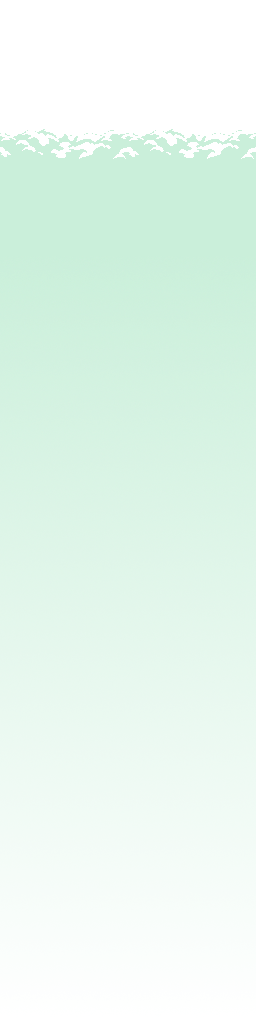
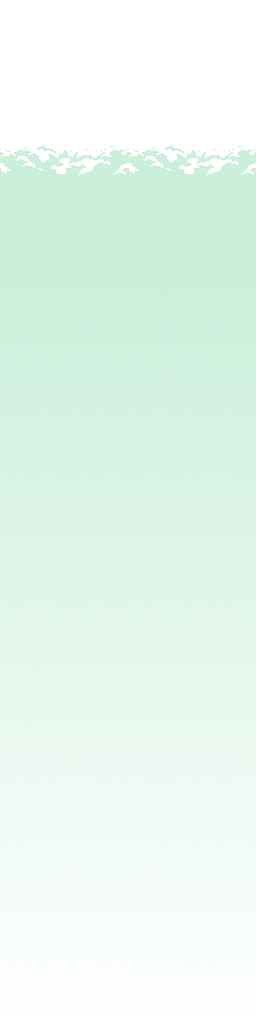
more parallaxing and level gen

Changed region(s): [[0.0, 0.125, 1.0, 0.1875]]

diff --git a/Game1.cs b/Game1.cs
@@ -16,8 +16,6 @@ namespace TheBondOfStone {
         public static int PixelScaleFactor { get; set; }
 
         List<TileMap> Chunks;
-        TileMap previousChunk;
-        TileMap currentChunk;
         FileInfo[] mapFiles;
 
         List<ParallaxLayer> parallaxLayers;
@@ -69,14 +67,19 @@ namespace TheBondOfStone {
             mapFiles = mapDir.GetFiles();
 
             //TODO: Actual map generation script implementation goes here.
-            //map.Generate(map.ReadImage("map_1.png"), PixelScaleFactor);
+
+            //Starter generation: generate chunks out to the end of the screen to start off.
+            DoStarterGeneration();
             
 
             //Initialize and load background parallaxing layers
             parallaxLayers = new List<ParallaxLayer>();
-            parallaxLayers.Add(new ParallaxLayer(Content.Load<Texture2D>(@"graphics\misc\parallax_0"), new Vector2(-10, 3f), 0.0125f));
-            parallaxLayers.Add(new ParallaxLayer(Content.Load<Texture2D>(@"graphics\misc\parallax_1"), new Vector2(-30, 3f), 0.03f));
+            parallaxLayers.Add(new ParallaxLayer(Content.Load<Texture2D>(@"graphics\misc\parallax_0"), new Vector2(-10, 3f), new Vector2(0.0125f, 0f)));
+            parallaxLayers.Add(new ParallaxLayer(Content.Load<Texture2D>(@"graphics\misc\parallax_2"), new Vector2(-30, 4f), new Vector2(0.5f, -0.25f)));
 
+            parallaxLayers.Add(new ParallaxLayer(Content.Load<Texture2D>(@"graphics\misc\parallax_1"), new Vector2(-30, 4f), new Vector2(0.03f, 0f)));
+            parallaxLayers.Add(new ParallaxLayer(Content.Load<Texture2D>(@"graphics\misc\parallax_3"), new Vector2(-10, 3f), new Vector2(0.1f, -0.5f)));
+            
 
         }
 
@@ -113,9 +116,9 @@ namespace TheBondOfStone {
 
             //Update backgrounds
             foreach (ParallaxLayer p in parallaxLayers)
-                p.Update(gameTime, direction, GraphicsDevice.Viewport);
+                p.Update(gameTime, direction, GraphicsDevice.Viewport); //Replace "direction" with player X velocity
 
-            UpdateChunks();
+            UpdateChunkGeneration();
 
             base.Update(gameTime);
         }
@@ -130,7 +133,8 @@ namespace TheBondOfStone {
             //Draw background parallaxing layers with different spritebatch settings 
             spriteBatch.Begin(SpriteSortMode.Deferred, null, SamplerState.PointWrap);
             foreach (ParallaxLayer p in parallaxLayers)
-                p.Draw(spriteBatch);
+                if(p != parallaxLayers[3])
+                    p.Draw(spriteBatch);
 
             spriteBatch.End();
 
@@ -139,21 +143,24 @@ namespace TheBondOfStone {
                 map.Draw(spriteBatch); //Draw each active chunk
             spriteBatch.End();
 
+            spriteBatch.Begin(SpriteSortMode.Deferred, null, SamplerState.PointWrap);
+            parallaxLayers[3].Draw(spriteBatch);
+            spriteBatch.End();
             base.Draw(gameTime);
         }
 
         //Maybe use this to generate chunks eventually.
         void GenerateNewChunk(Rectangle startTileRect, string mapName) {
-            TileMap newChunk = new TileMap();
-
-            Chunks.Add(newChunk);
-            previousChunk = currentChunk;
-            currentChunk = newChunk;
-
-            //TODO: Generate the chunk at an origin position given by startTileRect as an "origin"
+            Chunks.Add(new TileMap(startTileRect));
         }
 
-        void UpdateChunks() {
+        void UpdateChunkGeneration() {
+            foreach (TileMap chunk in Chunks) {
+                if (!chunk.Generated)
+                    chunk.Generate(chunk.ReadImage(GetNewMapName()), PixelScaleFactor);
+            }
+
+
             if (Chunks.Count > 0) {
                 if (Chunks[0].EndTile.Rect.X <= -Chunks[0].EndTile.Rect.Width) {
                     //last tile of first chunk is off screen, destroy that chunk (i.e. remove it from the list).
@@ -167,8 +174,13 @@ namespace TheBondOfStone {
             }
         }
 
+        void DoStarterGeneration() {
+            Chunks.Add(new TileMap());
+        }
+
         //Gets a random map name from the directory of the maps
         string GetNewMapName() {
+            //Return the name of a file from mapFiles (the directory of the maps) 
             return mapFiles[RandomObject.Next(mapFiles.Length)].Name;
         }
     }

diff --git a/TileMap.cs b/TileMap.cs
@@ -15,6 +15,8 @@ namespace TheBondOfStone {
         public Tile StartTile { get; set; }
         public Tile EndTile { get; set; }
 
+        public bool Generated { get; set; }
+
         public List<Tile> Tiles {
             get { return tiles; }
         }
@@ -24,7 +26,27 @@ namespace TheBondOfStone {
         public int Width { get { return width; } }
         public int Height { get { return height; } }
 
-        public TileMap() { }
+        Microsoft.Xna.Framework.Rectangle o;
+
+        public TileMap(Microsoft.Xna.Framework.Rectangle originTile) {
+            o = originTile;
+        }
+
+        //default constructor generates the "starter chunk"
+        public TileMap() {
+            int[,] atlas = new int[,] {
+                { 0, 0, 0, 0, 0 },
+                { 0, 2, 2, 0, 0 },
+                { 0, 2, 2, 2, 0 },
+                { 1, 1, 1, 1, 5 },
+                { 0, 1, 1, 0, 0 }
+            };
+
+            Generate(atlas, Game1.PixelScaleFactor);
+            EndTile = Tiles[23];
+
+            o = new Microsoft.Xna.Framework.Rectangle(10 * Game1.PixelScaleFactor, 20 * Game1.PixelScaleFactor, Game1.PixelScaleFactor, Game1.PixelScaleFactor);
+        }
 
         //Generate this chunk in a drawable format. Takes a 2D array of tile IDs and a tile size.
         public void Generate(int[,] atlas, int size) {
@@ -32,15 +54,9 @@ namespace TheBondOfStone {
             for (int x = 0; x < atlas.GetLength(1); x++) {
                 for (int y = 0; y < atlas.GetLength(0); y++) {
                     //Add a new tile to the tiles list with an ID and rect from the Atlas.
-                    Tile tileToAdd = new Tile(atlas[y, x], new Microsoft.Xna.Framework.Rectangle(x * size, y * size, size, size));
+                    Tile tileToAdd = new Tile(atlas[y, x], new Microsoft.Xna.Framework.Rectangle(o.X + (x * size + size), o.Y + (y * size), size, size));
 
                     Tiles.Add(tileToAdd);
-
-                    if (tileToAdd.ID == 4)
-                        StartTile = tileToAdd;
-
-                    if (tileToAdd.ID == 5)
-                        StartTile = tileToAdd;
 
                     width = (x + 1) * size;
                     height = (y + 1) * size;
@@ -102,9 +118,16 @@ namespace TheBondOfStone {
                 }
             }
 
-            //Generate the decorations for each tile
-            foreach(Tile tile in Tiles)
+            //Generate the decorations and start/end tile information for each tile
+            foreach (Tile tile in Tiles) {
+                if (tile.ID == 4)
+                    StartTile = tile;
+                else if (tile.ID == 5)
+                    EndTile = tile;
                 tile.GenerateDecorations();
+            }
+
+            Generated = true;
         }
 
         public void Draw(SpriteBatch sb) {
@@ -124,15 +147,15 @@ namespace TheBondOfStone {
 
             for(int x = 0; x < atlas.GetLength(1); x++) { //Iterate through each atlas index
                 for(int y = 0; y < atlas.GetLength(0); y++) {
-                    Color px = img.GetPixel(y, x); //Get the pixel color at this index and convert it to a string
+                    Color px = img.GetPixel(x, y); //Get the pixel color at this index and convert it to a string
 
                     string pxStr = 
                         px.R.ToString("D3") + " " +
                         px.G.ToString("D3") + " " +
                         px.B.ToString("D3") + " " +
                         px.A.ToString("D3");
-
-                    atlas[x, y] = TileID(pxStr, y, atlas.GetLength(0)); //Convert the pixel color to an integer ID and populate the array
+                    
+                    atlas[y, x] = TileID(pxStr, x, img.Width); //Convert the pixel color to an integer ID and populate the array
                 }
             }
 

diff --git a/ParallaxLayer.cs b/ParallaxLayer.cs
@@ -17,17 +17,17 @@ namespace TheBondOfStone
 
         private Viewport viewport;
 
-        float baseSpeedX;
+        Vector2 baseSpeed;
 
         private Rectangle Rect {
             get { return new Rectangle((int)(offset.X), (int)(offset.Y), (viewport.Width / (Game1.PixelScaleFactor/8)), (viewport.Height / (Game1.PixelScaleFactor/8))); }
         }
 
-        public ParallaxLayer(Texture2D texture, Vector2 disp, float baseSpeed) {
+        public ParallaxLayer(Texture2D texture, Vector2 disp, Vector2 baseSpeed) {
             this.texture = texture;
             offset = Vector2.Zero;
             this.disp = disp;
-            baseSpeedX = baseSpeed;
+            this.baseSpeed = baseSpeed;
         }
 
         public void Update(GameTime gameTime, Vector2 dir, Viewport viewport) {
@@ -36,7 +36,7 @@ namespace TheBondOfStone
             this.viewport = viewport;
 
             Vector2 newDisp = dir * disp * e;
-            newDisp = new Vector2(newDisp.X + baseSpeedX, newDisp.Y);
+            newDisp = new Vector2(newDisp.X + baseSpeed.X, newDisp.Y + baseSpeed.Y);
 
             offset += newDisp;
         }
